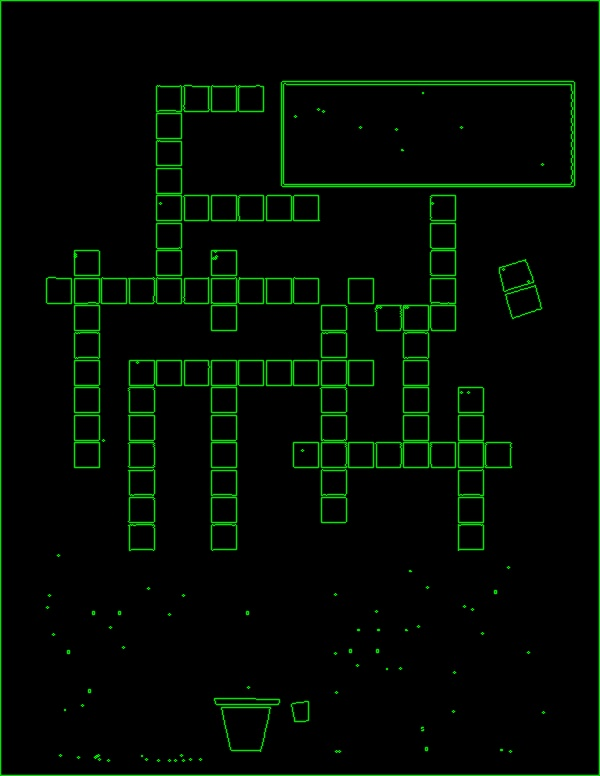
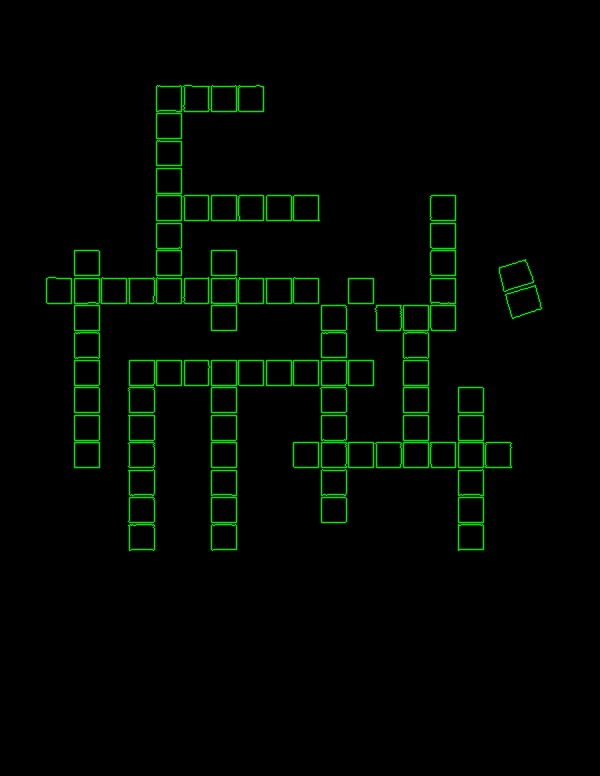
detect square not gets the squares in each image, needs to be refined to remove false positives

Changed region(s): [[0.0, 0.0, 1.0, 1.0], [0.45, 0.0928, 0.96, 0.2474]]

diff --git a/Main.py b/Main.py
@@ -1,4 +1,5 @@
 #references: https://learnopencv.com/contour-detection-using-opencv-python-c/
+#            https://stackoverflow.com/questions/55169645/square-detection-in-image
 
 import cv2
 import os
@@ -29,12 +30,14 @@ def parseContours(filename):
     
     
 def detectSquareContour(contour,emptyImage,name):
-    #currently gets any 4 sided polygon
     squares = []
     for cont in contour:
+        x, y, w, h = cv2.boundingRect(cont)
+        # Calculate aspect ratio
+        aspect_ratio = float(w) / h
         cnt_len = cv2.arcLength(cont, True)
         cnt = cv2.approxPolyDP(cont, 0.02*cnt_len, True)
-        if len(cnt) == 4:
+        if len(cnt) == 4 and cv2.contourArea(cnt) > 100 and abs(aspect_ratio-1) < 0.1:
             squares.append(cont)
     cv2.drawContours(image=emptyImage, contours=squares, contourIdx=-1, color=(0, 255, 0), thickness=1, lineType=cv2.LINE_AA)
     cv2.imwrite(name+'squares.jpg', emptyImage)
